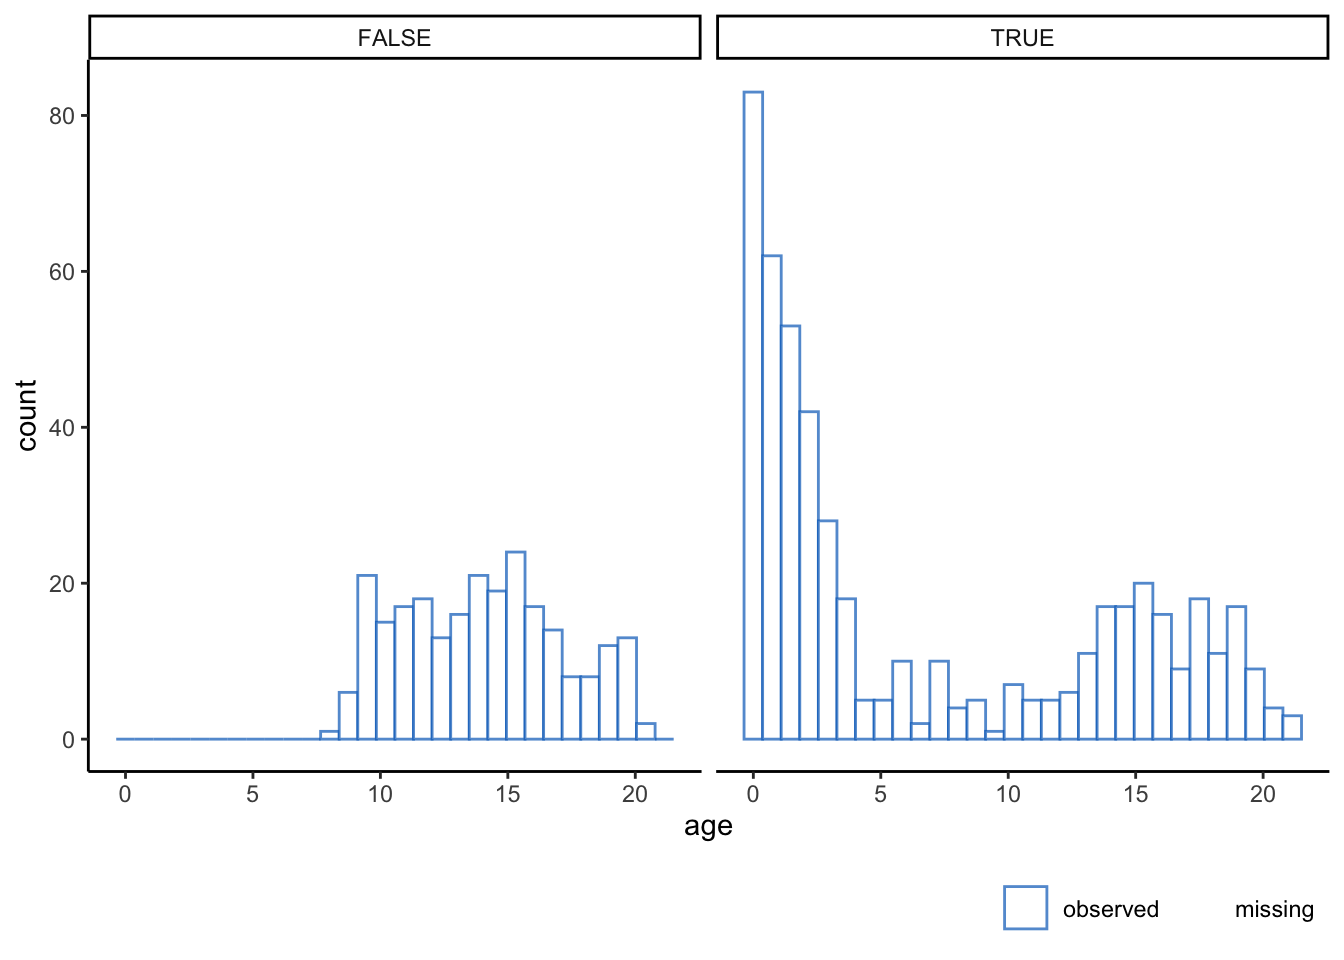
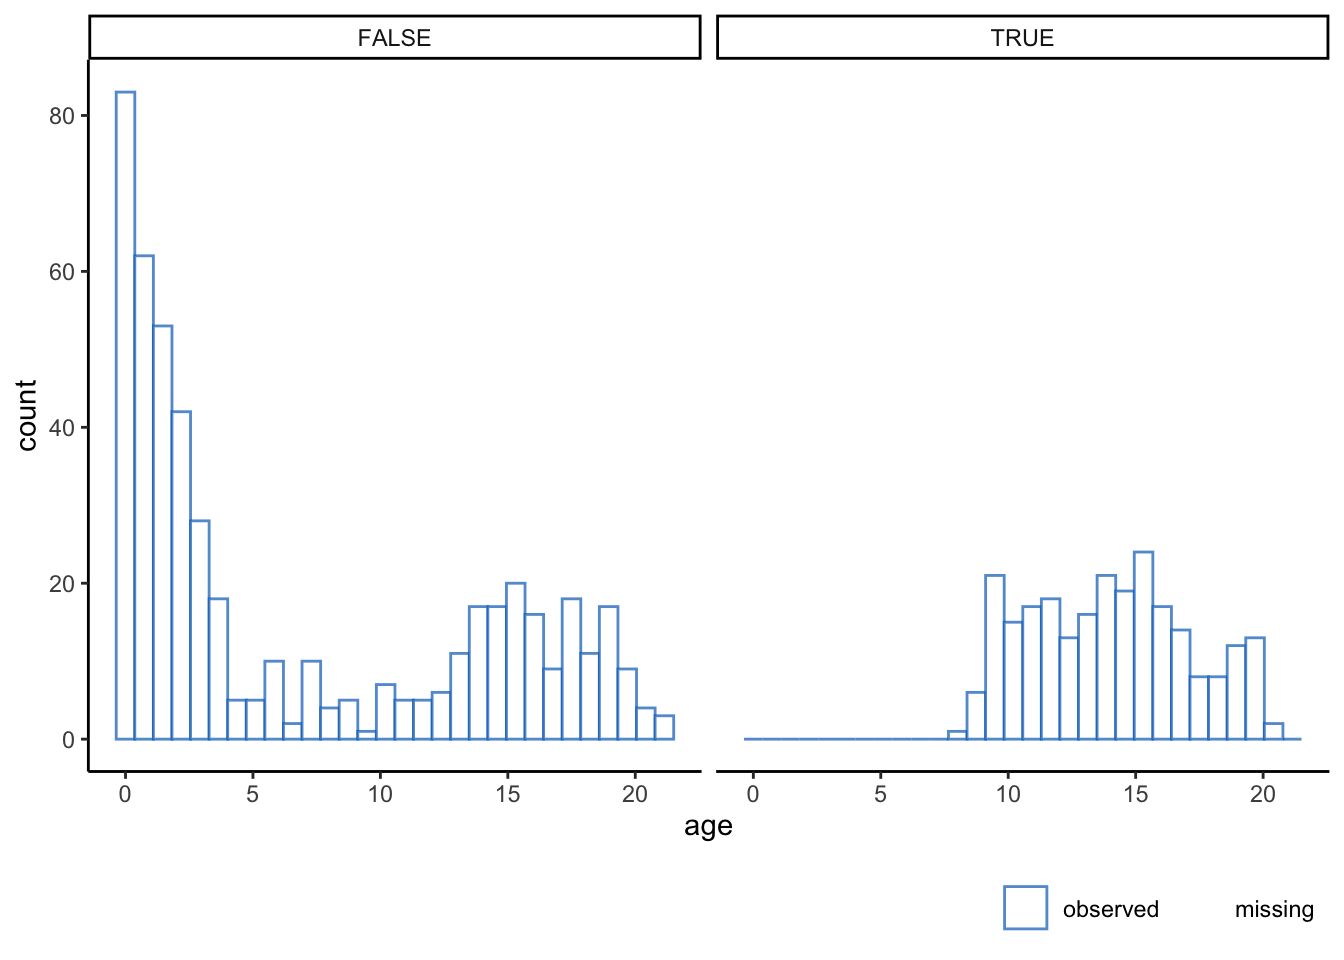
rerender page

diff --git a/index.html b/index.html
@@ -801,28 +801,31 @@ F-statistic: 0.3385 on 1 and 23 DF,  p-value: 0.5663</code></pre>
 <p><strong>13. Let us focus more precisely on the missing data patterns. Does the missing data of <code>gen</code> depend on <code>age</code>? One could for example check this by making a histogram of <code>age</code> separately for the cases with known genital stages and for cases with missing genital stages.</strong></p>
 <p>To create said histogram in <code>R</code>, a missingness indicator for <code>gen</code> has to be created. A missingness indicator is a dummy variable with value <code>1</code> for observed values (in this case genital status) and <code>0</code> for missing values. Create a missingness indicator for <code>gen</code> by typing</p>
 <div class="cell">
-<div class="sourceCode cell-code" id="cb75"><pre class="sourceCode r code-with-copy"><code class="sourceCode r"><span id="cb75-1"><a href="#cb75-1" aria-hidden="true" tabindex="-1"></a>R <span class="ot">&lt;-</span> <span class="fu">is.na</span>(boys<span class="sc">$</span>gen) </span>
-<span id="cb75-2"><a href="#cb75-2" aria-hidden="true" tabindex="-1"></a><span class="fu">head</span>(R, <span class="at">n =</span> <span class="dv">100</span>)</span></code><button title="Copy to Clipboard" class="code-copy-button"><i class="bi"></i></button></pre></div>
+<div class="sourceCode cell-code" id="cb75"><pre class="sourceCode r code-with-copy"><code class="sourceCode r"><span id="cb75-1"><a href="#cb75-1" aria-hidden="true" tabindex="-1"></a><span class="co"># use ! to indicate the opposite of NA</span></span>
+<span id="cb75-2"><a href="#cb75-2" aria-hidden="true" tabindex="-1"></a>R <span class="ot">&lt;-</span> <span class="sc">!</span><span class="fu">is.na</span>(boys<span class="sc">$</span>gen) <span class="co"># TRUE for observed, FALSE for missing</span></span>
+<span id="cb75-3"><a href="#cb75-3" aria-hidden="true" tabindex="-1"></a><span class="fu">head</span>(R, <span class="at">n =</span> <span class="dv">100</span>)</span></code><button title="Copy to Clipboard" class="code-copy-button"><i class="bi"></i></button></pre></div>
 <div class="cell-output cell-output-stdout">
-<pre><code>  [1] TRUE TRUE TRUE TRUE TRUE TRUE TRUE TRUE TRUE TRUE TRUE TRUE TRUE TRUE TRUE
- [16] TRUE TRUE TRUE TRUE TRUE TRUE TRUE TRUE TRUE TRUE TRUE TRUE TRUE TRUE TRUE
- [31] TRUE TRUE TRUE TRUE TRUE TRUE TRUE TRUE TRUE TRUE TRUE TRUE TRUE TRUE TRUE
- [46] TRUE TRUE TRUE TRUE TRUE TRUE TRUE TRUE TRUE TRUE TRUE TRUE TRUE TRUE TRUE
- [61] TRUE TRUE TRUE TRUE TRUE TRUE TRUE TRUE TRUE TRUE TRUE TRUE TRUE TRUE TRUE
- [76] TRUE TRUE TRUE TRUE TRUE TRUE TRUE TRUE TRUE TRUE TRUE TRUE TRUE TRUE TRUE
- [91] TRUE TRUE TRUE TRUE TRUE TRUE TRUE TRUE TRUE TRUE</code></pre>
+<pre><code>  [1] FALSE FALSE FALSE FALSE FALSE FALSE FALSE FALSE FALSE FALSE FALSE FALSE
+ [13] FALSE FALSE FALSE FALSE FALSE FALSE FALSE FALSE FALSE FALSE FALSE FALSE
+ [25] FALSE FALSE FALSE FALSE FALSE FALSE FALSE FALSE FALSE FALSE FALSE FALSE
+ [37] FALSE FALSE FALSE FALSE FALSE FALSE FALSE FALSE FALSE FALSE FALSE FALSE
+ [49] FALSE FALSE FALSE FALSE FALSE FALSE FALSE FALSE FALSE FALSE FALSE FALSE
+ [61] FALSE FALSE FALSE FALSE FALSE FALSE FALSE FALSE FALSE FALSE FALSE FALSE
+ [73] FALSE FALSE FALSE FALSE FALSE FALSE FALSE FALSE FALSE FALSE FALSE FALSE
+ [85] FALSE FALSE FALSE FALSE FALSE FALSE FALSE FALSE FALSE FALSE FALSE FALSE
+ [97] FALSE FALSE FALSE FALSE</code></pre>
 </div>
 <div class="sourceCode cell-code" id="cb77"><pre class="sourceCode r code-with-copy"><code class="sourceCode r"><span id="cb77-1"><a href="#cb77-1" aria-hidden="true" tabindex="-1"></a><span class="fu">tail</span>(R, <span class="at">n =</span> <span class="dv">100</span>)</span></code><button title="Copy to Clipboard" class="code-copy-button"><i class="bi"></i></button></pre></div>
 <div class="cell-output cell-output-stdout">
-<pre><code>  [1]  TRUE  TRUE  TRUE  TRUE FALSE  TRUE FALSE  TRUE  TRUE  TRUE FALSE  TRUE
- [13]  TRUE  TRUE  TRUE FALSE  TRUE  TRUE  TRUE FALSE FALSE  TRUE FALSE  TRUE
- [25] FALSE  TRUE  TRUE  TRUE FALSE FALSE FALSE  TRUE FALSE  TRUE  TRUE FALSE
- [37]  TRUE  TRUE  TRUE FALSE  TRUE FALSE  TRUE  TRUE  TRUE FALSE FALSE  TRUE
- [49]  TRUE  TRUE FALSE FALSE FALSE  TRUE FALSE  TRUE  TRUE  TRUE  TRUE FALSE
- [61] FALSE FALSE  TRUE  TRUE FALSE  TRUE  TRUE  TRUE FALSE FALSE  TRUE FALSE
- [73] FALSE  TRUE  TRUE FALSE FALSE  TRUE FALSE  TRUE FALSE FALSE  TRUE  TRUE
- [85] FALSE FALSE FALSE  TRUE FALSE FALSE  TRUE FALSE FALSE  TRUE  TRUE  TRUE
- [97]  TRUE  TRUE  TRUE  TRUE</code></pre>
+<pre><code>  [1] FALSE FALSE FALSE FALSE  TRUE FALSE  TRUE FALSE FALSE FALSE  TRUE FALSE
+ [13] FALSE FALSE FALSE  TRUE FALSE FALSE FALSE  TRUE  TRUE FALSE  TRUE FALSE
+ [25]  TRUE FALSE FALSE FALSE  TRUE  TRUE  TRUE FALSE  TRUE FALSE FALSE  TRUE
+ [37] FALSE FALSE FALSE  TRUE FALSE  TRUE FALSE FALSE FALSE  TRUE  TRUE FALSE
+ [49] FALSE FALSE  TRUE  TRUE  TRUE FALSE  TRUE FALSE FALSE FALSE FALSE  TRUE
+ [61]  TRUE  TRUE FALSE FALSE  TRUE FALSE FALSE FALSE  TRUE  TRUE FALSE  TRUE
+ [73]  TRUE FALSE FALSE  TRUE  TRUE FALSE  TRUE FALSE  TRUE  TRUE FALSE FALSE
+ [85]  TRUE  TRUE  TRUE FALSE  TRUE  TRUE FALSE  TRUE  TRUE FALSE FALSE FALSE
+ [97] FALSE FALSE FALSE FALSE</code></pre>
 </div>
 <div class="sourceCode cell-code" id="cb79"><pre class="sourceCode r code-with-copy"><code class="sourceCode r"><span id="cb79-1"><a href="#cb79-1" aria-hidden="true" tabindex="-1"></a><span class="fu">length</span>(R)</span></code><button title="Copy to Clipboard" class="code-copy-button"><i class="bi"></i></button></pre></div>
 <div class="cell-output cell-output-stdout">
